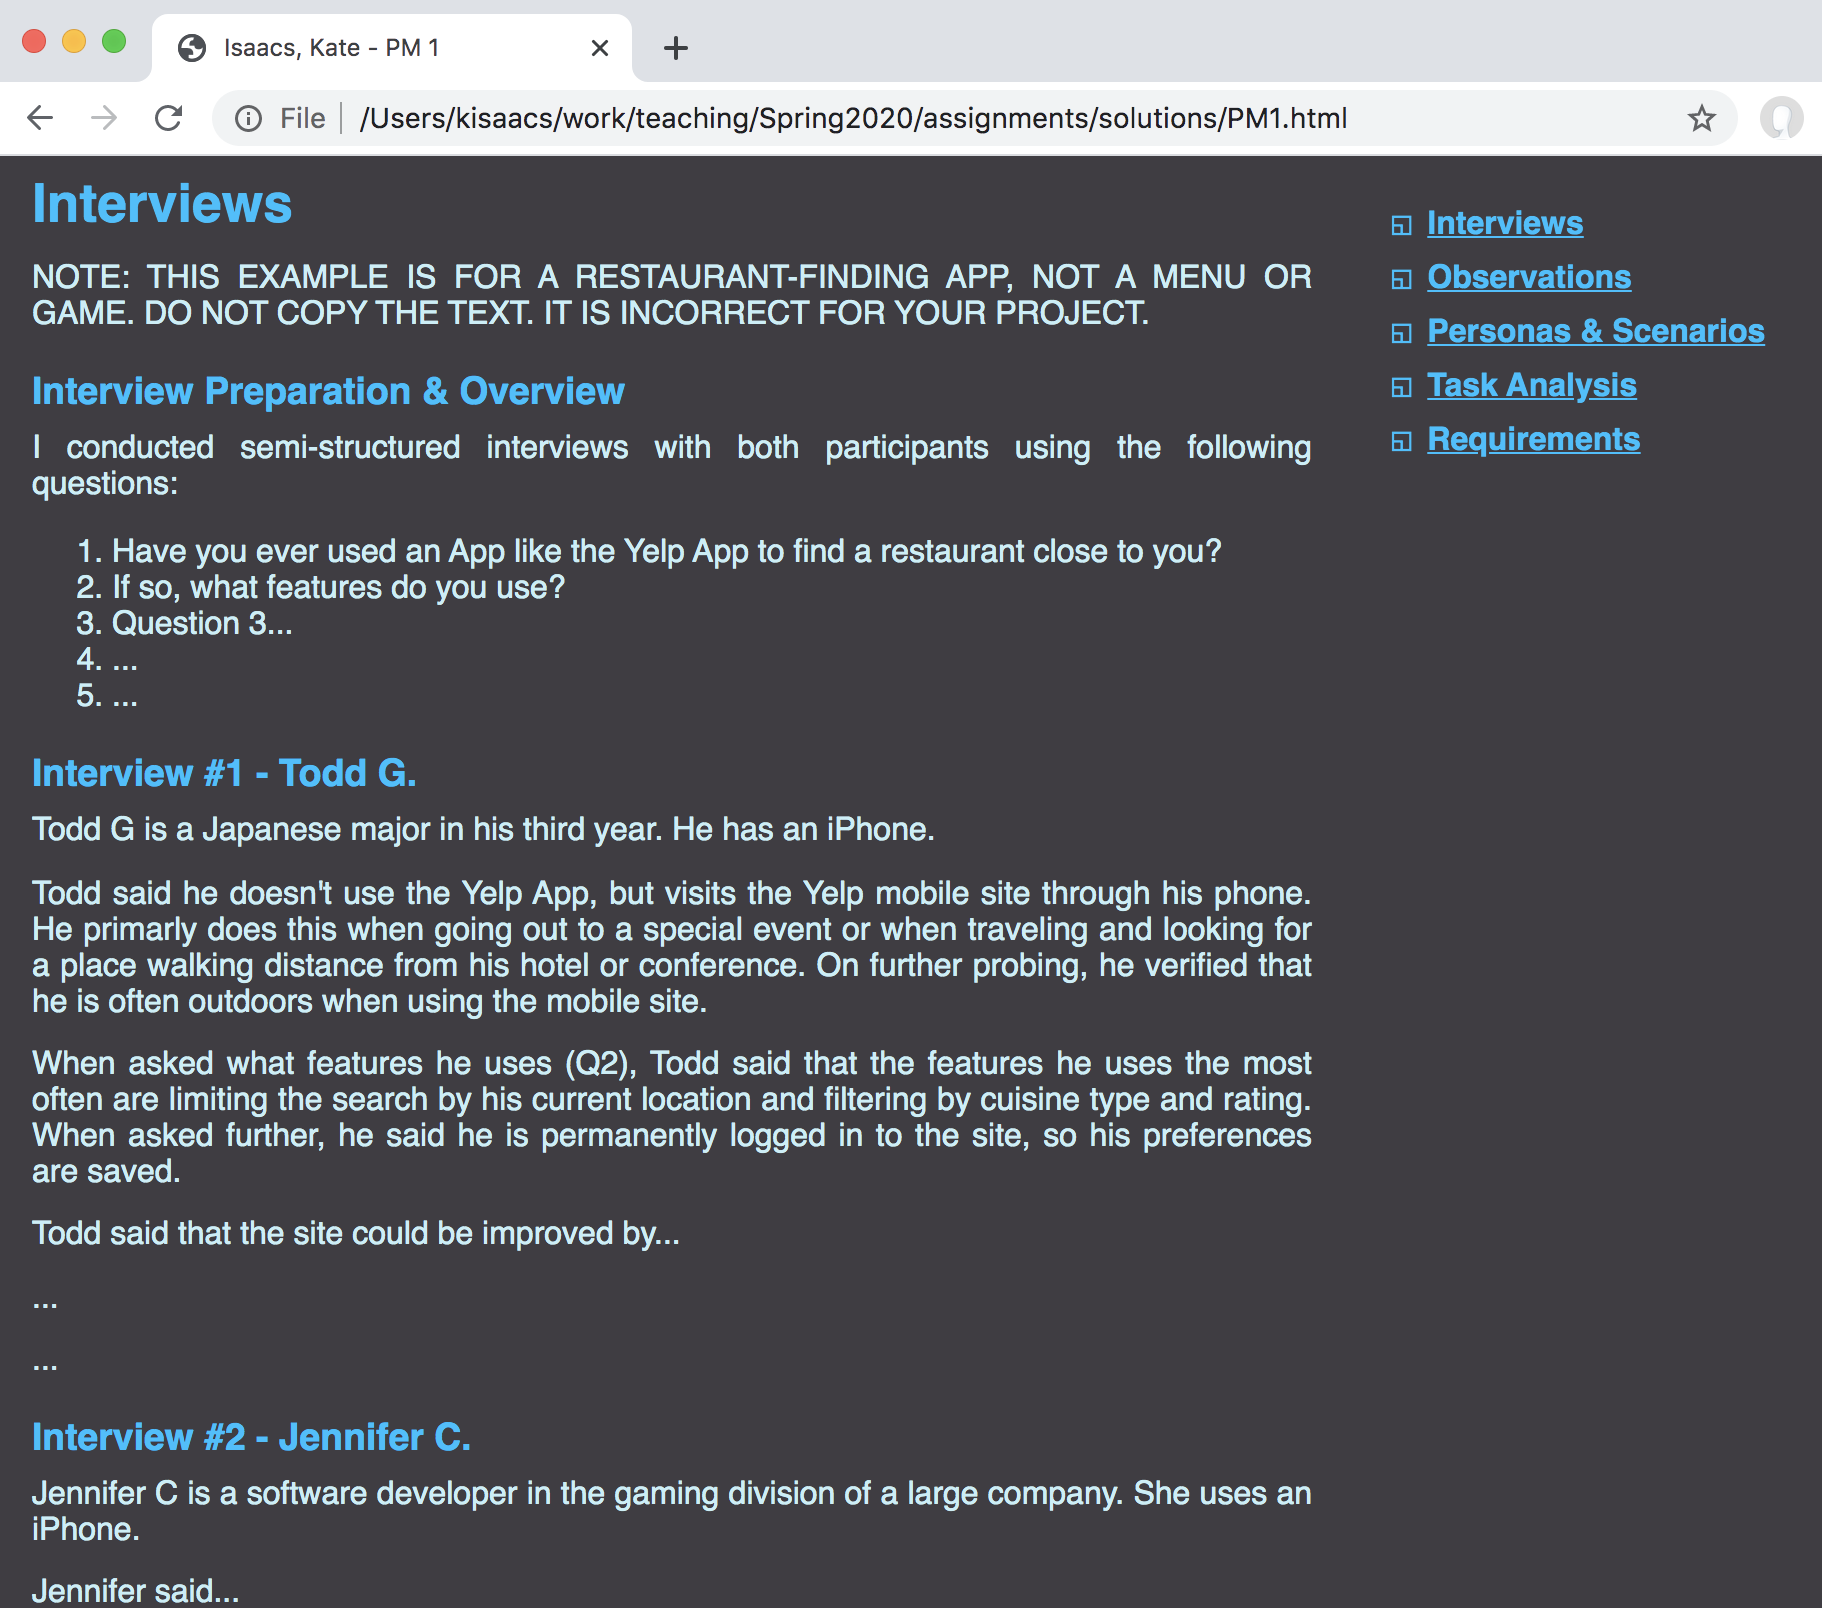
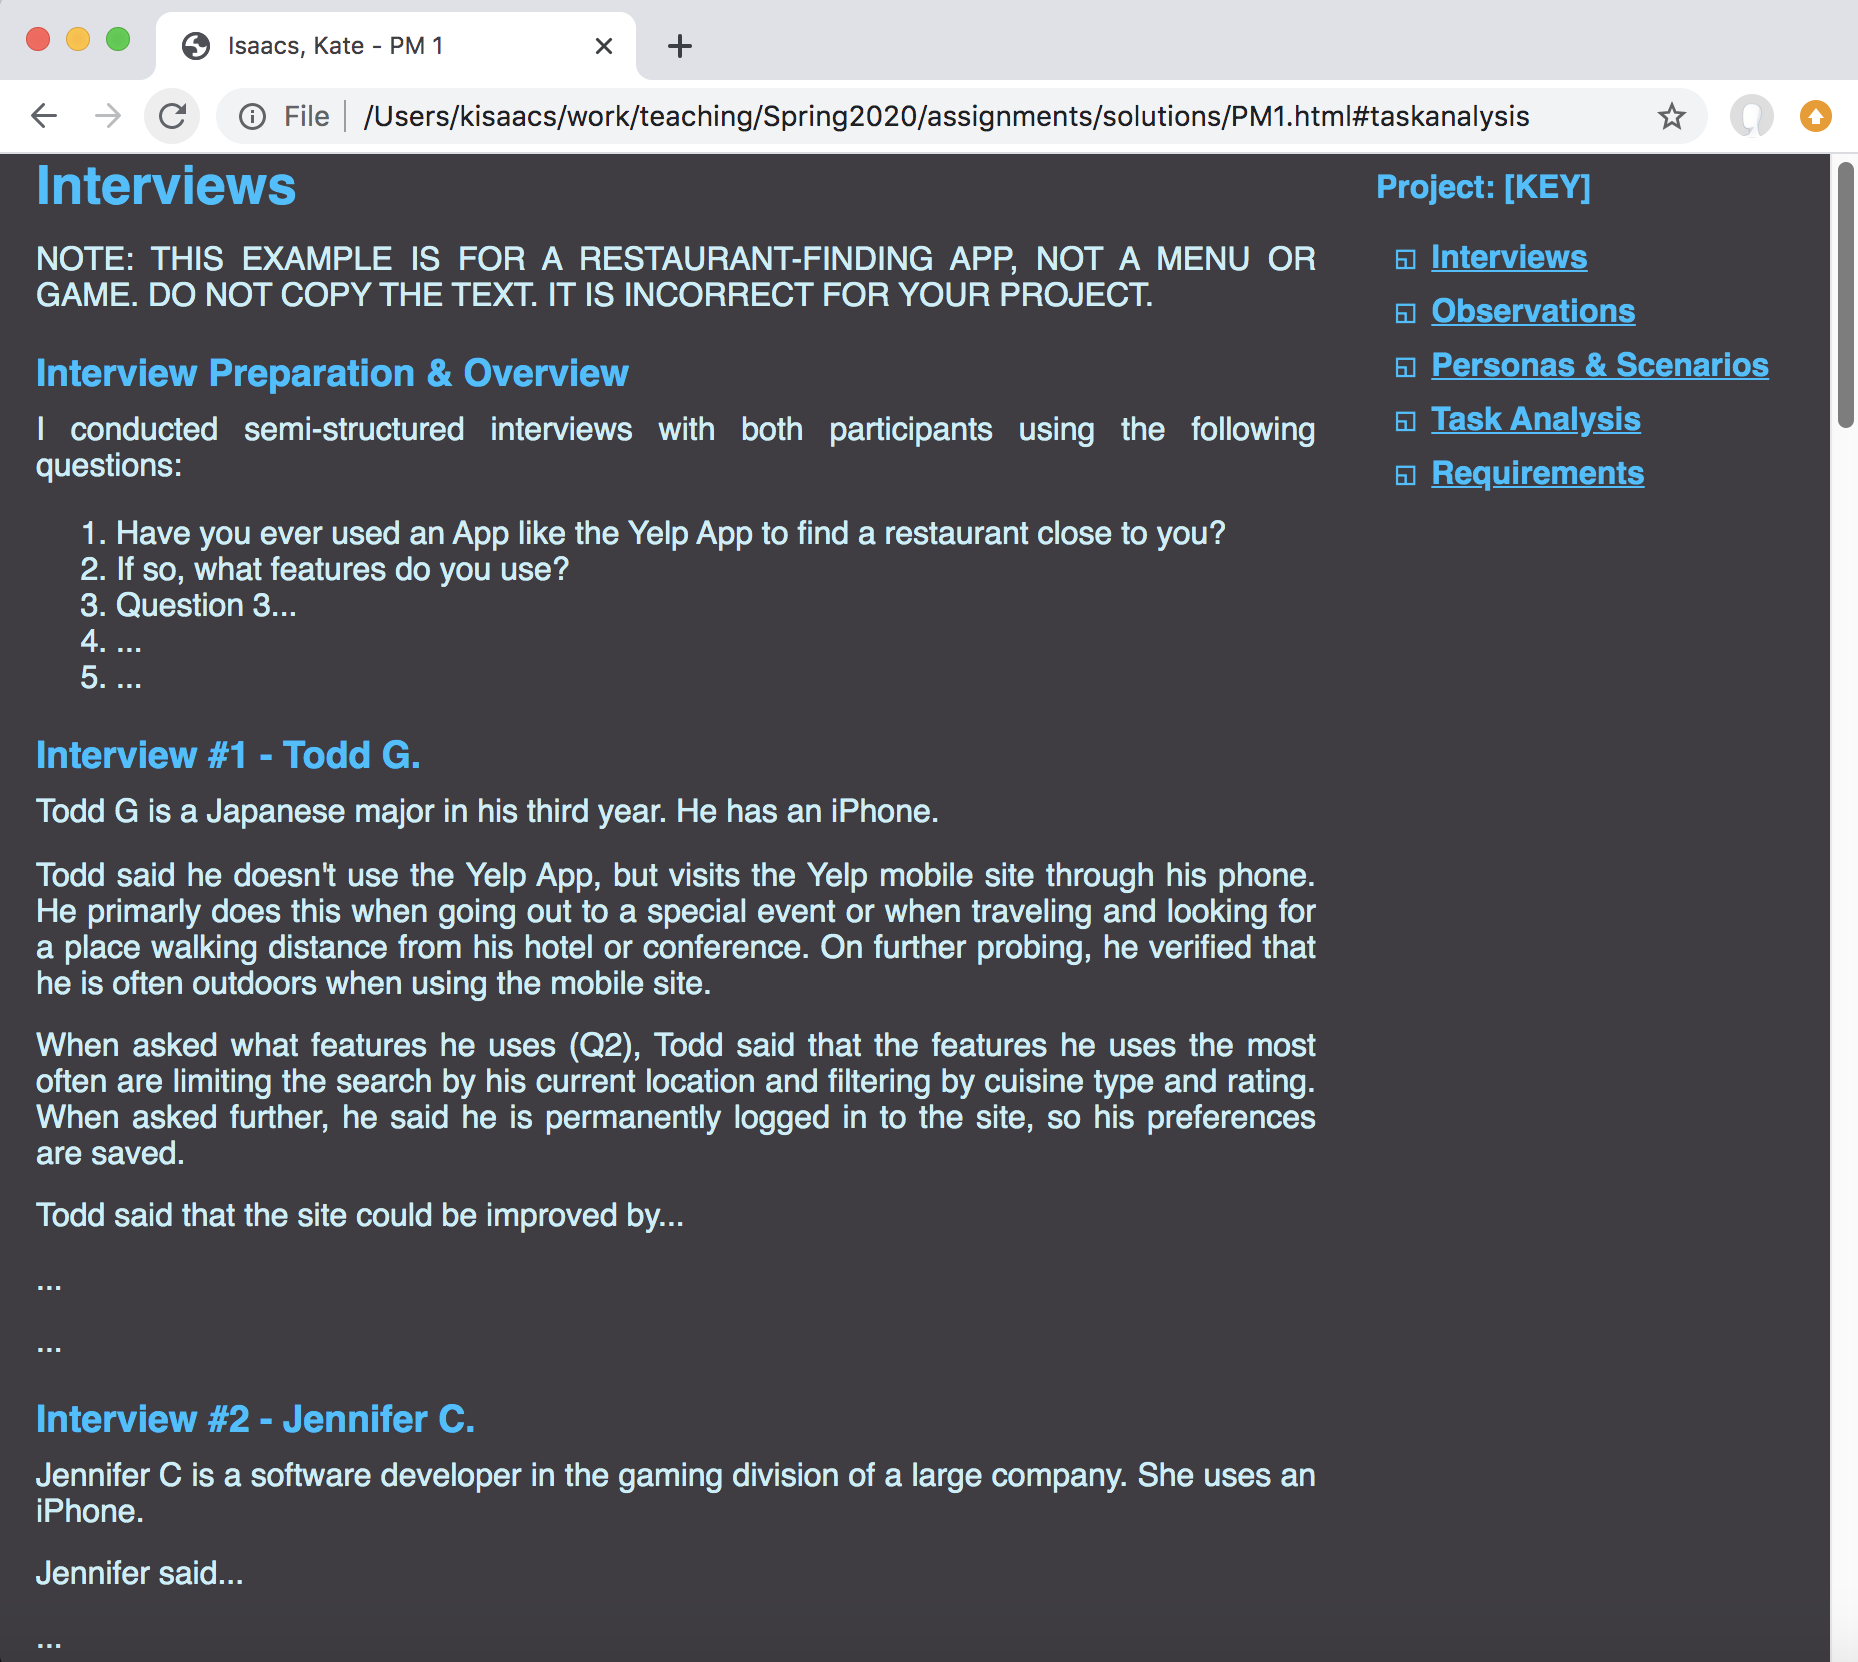
Add project choice to assignment.

diff --git a/PM1.md b/PM1.md
@@ -37,6 +37,9 @@ media needed for the report and `PM1.html`.
 
 ## Content
 
+In the upper right, state which of the two projects you have chosen, with
+`Project: [KEY]` where `[KEY]` is `MENU` or `GAME`.
+
 ### Data Gathering 
 
 #### Interviews (18 pts)
@@ -225,7 +228,8 @@ justified. The main content should be 640 pixels wide.
 
 The links in the menu should be
 indented 10 pixels. There should be at least 15 pixels of spacing between each
-link.
+link. They should appear below the statement of which project you chose, which
+should be in `#00BBFF` bold.
 
 There should be a 30 pixel buffer between the menu and the content. There
 should be at least 35 points of space between each section of the content.
